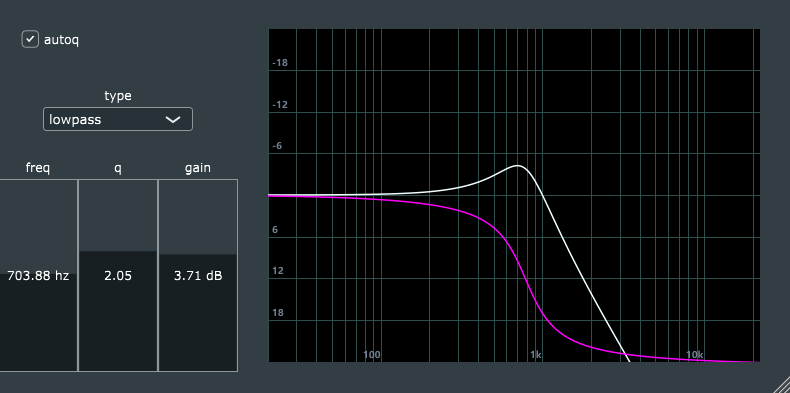
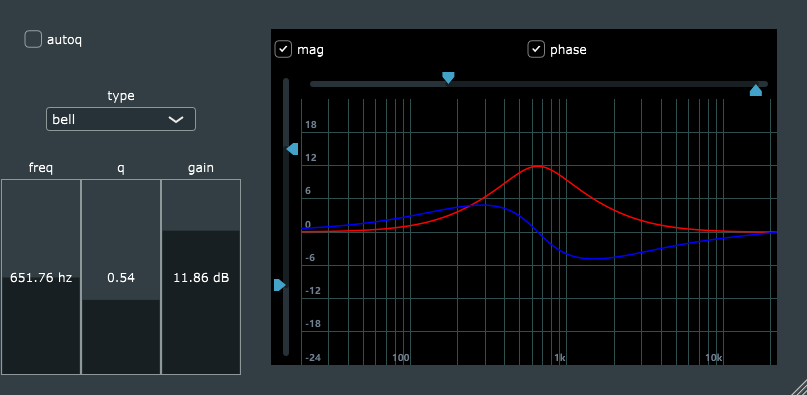
updates
added math constants to common functions.
Toggle button's for phase and mag plots added.
Min/max sliders for magnitude trace axes.

diff --git a/GEDDVASVF/Source/PluginEditor.h b/GEDDVASVF/Source/PluginEditor.h
@@ -114,6 +114,19 @@ public:
         dbRangeSlider.setRange(juce::Range<double>(-48.0, 48.0), 1.0);
         dbRangeSlider.setMinAndMaxValues(-24.0, 24.0, juce::NotificationType::dontSendNotification);
         dbRangeSlider.onValueChange = [&] { 
+            // Validate
+            const auto min = dbRangeSlider.getMinValue();
+            const auto max = dbRangeSlider.getMaxValue();
+
+            if (min == max) return;
+
+            if (max < min)
+            {
+                dbRangeSlider.setMinValue(max, juce::NotificationType::dontSendNotification);
+                dbRangeSlider.setMaxValue(min, juce::NotificationType::dontSendNotification);
+            }
+
+            // update
             const auto newRange = juce::NormalisableRange<double>(dbRangeSlider.getMinValue(), dbRangeSlider.getMaxValue());
             responseTrace.setDecibelNormalisableRange(newRange);
             grid.setDecibelNormalisableRange(newRange);
@@ -123,10 +136,34 @@ public:
         freqRangeSlider.setTextBoxStyle(juce::Slider::TextEntryBoxPosition::NoTextBox, true, 0, 0);
         freqRangeSlider.setNormalisableRange(gedd::createFrequencyRange(1.0, 22050.0));
         freqRangeSlider.setMinAndMaxValues(20.0, 18000.0, juce::NotificationType::dontSendNotification);
+
         freqRangeSlider.onValueChange = [&] {
+            // Validate
+            const auto min = freqRangeSlider.getMinValue();
+            const auto max = freqRangeSlider.getMaxValue();
+
+            if (min == max) return;
+
+            if (max < min)
+            {
+                freqRangeSlider.setMinValue(max, juce::NotificationType::dontSendNotification);
+                freqRangeSlider.setMaxValue(min, juce::NotificationType::dontSendNotification);
+            }
+
+            // Update
             const auto newRange = gedd::createFrequencyRange(freqRangeSlider.getMinValue(), freqRangeSlider.getMaxValue());
             responseTrace.setFrequencyNormalisableRange(newRange);
             grid.setFrequencyNormalisableRange(newRange);
+        };
+
+        showMagnitudeToggle.setToggleState(responseTrace.getShowMagnitudeTrace(), juce::NotificationType::dontSendNotification);
+        showMagnitudeToggle.onStateChange = [&] {
+            responseTrace.setShowMagnitudeTrace(showMagnitudeToggle.getToggleState());
+        };
+
+        showPhaseToggle.setToggleState(responseTrace.getShowPhaseTrace(), juce::NotificationType::dontSendNotification);
+        showPhaseToggle.onStateChange = [&] {
+            responseTrace.setShowPhaseTrace(showPhaseToggle.getToggleState());
         };
 
         responseTrace.setFrequencyNormalisableRange(frequencyRange);
@@ -136,8 +173,11 @@ public:
 
         addAndMakeVisible(grid);
         addAndMakeVisible(responseTrace);
+
         addAndMakeVisible(dbRangeSlider);
         addAndMakeVisible(freqRangeSlider);
+        addAndMakeVisible(showMagnitudeToggle);
+        addAndMakeVisible(showPhaseToggle);
     }
 
     void paint(juce::Graphics& g)
@@ -148,6 +188,11 @@ public:
     void resized() override
     {
         auto bounds = getLocalBounds();
+
+        auto toggleRegion = bounds.removeFromTop(40);
+
+        showMagnitudeToggle.setBounds(toggleRegion.removeFromLeft(toggleRegion.getWidth() / 2));
+        showPhaseToggle.setBounds(toggleRegion);
 
         dbRangeSlider.setBounds(bounds.removeFromLeft(30));
         freqRangeSlider.setBounds(bounds.removeFromTop(30));
@@ -162,6 +207,8 @@ private:
 
     juce::Slider dbRangeSlider{ "dbRange" };
     juce::Slider freqRangeSlider{ "freqRange" };
+    juce::ToggleButton showMagnitudeToggle{ "mag" };
+    juce::ToggleButton showPhaseToggle{ "phase" };
 };
 
 //==============================================================================

diff --git a/GEDDVASVF/Source/VASVFTraceComponent.cpp b/GEDDVASVF/Source/VASVFTraceComponent.cpp
@@ -24,8 +24,8 @@ VASVFTraceComponent::VASVFTraceComponent(EQParameterReference& ref)
     setPaintingIsUnclipped(true);
     setRepaintsOnMouseActivity(false);
 
-    setColour(magnitudeTraceColourID, juce::Colours::azure);
-    setColour(phaseTraceColourID, juce::Colours::magenta);
+    setColour(magnitudeTraceColourID, juce::Colours::red);
+    setColour(phaseTraceColourID, juce::Colours::blue);
 
     freq.addListener(this);
     gain.addListener(this);
@@ -142,6 +142,16 @@ void VASVFTraceComponent::setFrequencyRange(juce::Range<double> r)
     }
 }
 
+void VASVFTraceComponent::setFrequencyNormalisableRange(juce::NormalisableRange<double> r)
+{
+    if (r.getRange().getLength() <= 0) return;
+
+    frequencyRange = r;
+
+    fillFrequencyVector();
+    redraw();
+}
+
 void VASVFTraceComponent::setDecibelRange(double bottom, double top)
 {
     setDecibelRange(juce::Range<double>(bottom, top));
@@ -158,6 +168,15 @@ void VASVFTraceComponent::setDecibelRange(juce::Range<double> r)
 
         update();
     }
+}
+
+void VASVFTraceComponent::setDecibelNormalisableRange(juce::NormalisableRange<double> r)
+{
+    if (r.getRange().getLength() <= 0) return;
+
+    decibelRange = r;
+
+    redraw();
 }
 
 void VASVFTraceComponent::setSampleRate(double newSampleRate)
@@ -252,7 +271,9 @@ void VASVFTraceComponent::createMagnitudePlot()
 void VASVFTraceComponent::createPhasePlot()  // rather than db shouldn't it be in phases?
 {
     auto bounds = getLocalBounds();
-    const auto pixelsPerValue = 4.0 * bounds.getHeight() / juce::Decibels::decibelsToGain(decibelRange.end);
+    //const auto ppv = 4.0 * bounds.getHeight() / juce::Decibels::decibelsToGain(decibelRange.end);
+    //const auto pixelsPerValue = 1.0 / bounds.getHeight();
+
     const auto xScale = static_cast<double>(bounds.getWidth()) / static_cast<double>(numPoints - 1);
     const auto phaseFloor = -juce::MathConstants<double>::pi;
     const auto phaseCeiling = juce::MathConstants<double>::pi;
@@ -262,16 +283,10 @@ void VASVFTraceComponent::createPhasePlot()  // rather than db shouldn't it be i
 
     for (auto i = 0; i != numPoints; ++i)
     {
-        auto xPos = static_cast<double>(bounds.getX() + i) * xScale;
-        auto yPos = 0.0;
+        const auto phase = juce::jlimit(phaseFloor, phaseCeiling, phases[i]) * gedd::MathConstants<double>::reciprocalTwopi;
 
-        // clamp yPos
-        if (phases[i] < phaseFloor)
-            yPos = bounds.getBottom();
-        else if (phases[i] > phaseCeiling)
-            yPos = bounds.getY();
-        else
-            yPos = static_cast<double>(bounds.getCentreY()) - pixelsPerValue * (phases[i] / juce::MathConstants<double>::halfPi);
+        const auto xPos = static_cast<double>(bounds.getX() + i) * xScale;
+        const auto yPos = bounds.getCentreY() - ((phase * bounds.getHeight()) + bounds.getY());
 
         // plot
         if (i == 0)

diff --git a/GEDDVASVF/Source/FrequencyDecibelGridOverlay.cpp b/GEDDVASVF/Source/FrequencyDecibelGridOverlay.cpp
@@ -65,6 +65,8 @@ void FrequencyDecibelGridOverlay::setFrequencyRange(juce::Range<double> r)
 
 void FrequencyDecibelGridOverlay::setFrequencyNormalisableRange(juce::NormalisableRange<double> r)
 {
+    if (r.getRange().getLength() <= 0) return;
+
     frequencyRange = r;
 
     frequencyMarkers.makeDecades(r.getRange());
@@ -86,6 +88,20 @@ void FrequencyDecibelGridOverlay::setDecibelRange(juce::Range<double> r)
         decibelRange.start = r.getStart();
         decibelRange.end = r.getEnd();
     }
+}
+
+void FrequencyDecibelGridOverlay::setDecibelNormalisableRange(juce::NormalisableRange<double> r)
+{
+    if (r.getRange().getLength() <= 0) return;
+
+    decibelRange = r;
+    repaint();
+}
+
+void FrequencyDecibelGridOverlay::setGridThicknessPx(int t)
+{
+    jassert(t > 0); 
+    gridThicknessPx = t;
 }
 
 void FrequencyDecibelGridOverlay::paint(juce::Graphics& g)
@@ -110,7 +126,7 @@ void FrequencyDecibelGridOverlay::paintFrequencyGrid(juce::Graphics& g)
     for (auto i = 0; i != num; ++i)
     {
         const auto marker = frequencyMarkers.markers[i];
-        const auto xPos = (frequencyRange.convertTo0to1(marker) * bounds.getWidth()) + bounds.getX();
+        const auto xPos = (frequencyRange.convertTo0to1(frequencyRange.snapToLegalValue(marker)) * bounds.getWidth()) + bounds.getX();
 
         // draw line
         g.setColour(findColour(gridColourID));
@@ -122,9 +138,10 @@ void FrequencyDecibelGridOverlay::paintFrequencyGrid(juce::Graphics& g)
 
         switch (marker)
         {
-        case 100:   drawFrequencyLabels(g, juce::StringArray(decadeStrings)[0], xPos, textBaseLine); break;
-        case 1000:  drawFrequencyLabels(g, juce::StringArray(decadeStrings)[1], xPos, textBaseLine); break;
-        case 10000: drawFrequencyLabels(g, juce::StringArray(decadeStrings)[2], xPos, textBaseLine); break;
+        case 10:    drawFrequencyLabels(g, juce::StringArray(decadeStrings)[0], xPos, textBaseLine); break;
+        case 100:   drawFrequencyLabels(g, juce::StringArray(decadeStrings)[1], xPos, textBaseLine); break;
+        case 1000:  drawFrequencyLabels(g, juce::StringArray(decadeStrings)[2], xPos, textBaseLine); break;
+        case 10000: drawFrequencyLabels(g, juce::StringArray(decadeStrings)[3], xPos, textBaseLine); break;
         }
     }
 }

diff --git a/GEDDVASVF/Source/VASVFTraceComponent.h b/GEDDVASVF/Source/VASVFTraceComponent.h
@@ -40,9 +40,17 @@ public:
     void update();
 
     // setters
-    void setShowMagnitudeTrace(bool shouldShow) { showMagnitudes = shouldShow; }
+    void setShowMagnitudeTrace(bool shouldShow) 
+    { 
+        showMagnitudes = shouldShow; 
+        repaint();
+    }
 
-    void setShowPhaseTrace(bool shouldShow) { showPhases = shouldShow; }
+    void setShowPhaseTrace(bool shouldShow) 
+    { 
+        showPhases = shouldShow;
+        repaint();
+    }
 
     void setNumPoints(int newNumPoints);
 
@@ -50,24 +58,13 @@ public:
 
     void setFrequencyRange(juce::Range<double> r);
 
-    void setFrequencyNormalisableRange(juce::NormalisableRange<double> r) 
-    { 
-        frequencyRange = r; 
-
-        fillFrequencyVector();
-        redraw();
-    }
+    void setFrequencyNormalisableRange(juce::NormalisableRange<double> r);
 
     void setDecibelRange(double bottom, double top);
 
     void setDecibelRange(juce::Range<double> r);
 
-    void setDecibelNormalisableRange(juce::NormalisableRange<double> r) 
-    { 
-        decibelRange = r; 
-        //repaint(); 
-        redraw();
-    }
+    void setDecibelNormalisableRange(juce::NormalisableRange<double> r);
 
     void setSampleRate(double newSampleRate);
 

diff --git a/GEDDVASVF/Source/CommonFunctions.h b/GEDDVASVF/Source/CommonFunctions.h
@@ -37,5 +37,23 @@ namespace gedd
     static juce::String floatValueToTextFunction(float x) { return juce::String(x, 2); }
     static float floatTextToValueFunction(const juce::String& str) { return str.getFloatValue(); }
 
-    
+    template <typename FloatType>
+    struct MathConstants
+    {
+        /** A predefined value for 1 / pi */
+        static constexpr FloatType reciprocalPi = static_cast<FloatType>(1 / 3.141592653589793238L);
+
+        /** A predefined value for 1 / twopi */
+        static constexpr FloatType reciprocalTwopi = static_cast<FloatType>(1 / (2 * 3.141592653589793238L));
+
+        /** A predefined value for 1 / halfpi */
+        static constexpr FloatType reciprocalHalfpi = static_cast<FloatType>(1 / (3.141592653589793238L / 2));
+
+        /** A predefined value for 1 / euler's number */
+        static constexpr FloatType reciprocalEuler = static_cast<FloatType>(1 / (2.71828182845904523536L));
+
+        /** A predefined value for 1 / sqrt(2) */
+        static constexpr FloatType reciprocalSqrt2 = static_cast<FloatType> (0.70710678118654752440L);
+    };
+
 }   // namespace gedd

diff --git a/GEDDVASVF/Source/FrequencyDecibelGridOverlay.h b/GEDDVASVF/Source/FrequencyDecibelGridOverlay.h
@@ -108,11 +108,11 @@ public:
 
     void setDecibelRange(juce::Range<double> r);
 
-    void setDecibelNormalisableRange(juce::NormalisableRange<double> r) { decibelRange = r; repaint(); }
+    void setDecibelNormalisableRange(juce::NormalisableRange<double> r);
 
     void setFont(juce::Font f) { textFont = f; }
 
-    void setGridThicknessPx(int t) { jassert(t > 0); gridThicknessPx = t; }
+    void setGridThicknessPx(int t);
 
     // getters
     juce::Font getFont() const { return textFont; }
@@ -140,7 +140,7 @@ private:
 
     void paintDecibelGrid(juce::Graphics& g);
 
-    static constexpr auto decadeStrings = { "100", "1k", "10k" };
+    static constexpr auto decadeStrings = { "10", "100", "1k", "10k" };
 
     FrequencyMarkers frequencyMarkers;
 

diff --git a/GEDDVASVF/Source/VASVFProcessor.h b/GEDDVASVF/Source/VASVFProcessor.h
@@ -11,6 +11,7 @@
 #pragma once
 #include <JuceHeader.h>
 #include "VASVF.h"
+#include "CommonFunctions.h"
 
 /*
     Bugs:
@@ -108,7 +109,7 @@ namespace dsp
         bool                                    autoQ       { false };
         juce::LinearSmoothedValue<SampleType>   frequency   { 1000 };
         juce::LinearSmoothedValue<SampleType>   gain        { 0 };
-        juce::LinearSmoothedValue<SampleType>   q           { VASVF::State<SampleType>::inverseRootTwo };
+        juce::LinearSmoothedValue<SampleType>   q           { gedd::MathConstants<SampleType>::reciprocalSqrt2 };
 
         JUCE_DECLARE_NON_COPYABLE_WITH_LEAK_DETECTOR(VASVFProcessor)
     };

diff --git a/GEDDVASVF/Source/VASVF.cpp b/GEDDVASVF/Source/VASVF.cpp
@@ -78,7 +78,7 @@ typename State<NumericType>::Ptr State<NumericType>::makeBandpass(double sampleR
     const auto g = std::tan(frequency / sampleRate * juce::MathConstants<double>::pi);
     const auto k = static_cast<NumericType>(1) / q;
 
-    return *new State(a, g, k, 0, 1, 0);
+    return *new State(a, g, k, 0, 1 * k, 0);
 }
 
 template<typename NumericType>

diff --git a/GEDDVASVF/Source/VASVF.h b/GEDDVASVF/Source/VASVF.h
@@ -176,8 +176,6 @@ namespace VASVF {
         static NumericType calculateAutoQ(NumericType q, NumericType gain, bool aq) noexcept;
 
         std::array<NumericType, 9> data;    // a, g, k, m0, m1, m2, a1, a2, a3
-
-        static constexpr NumericType inverseRootTwo = static_cast<NumericType> (0.70710678118654752440L);
     };
 
 }   // namespace VASVF
